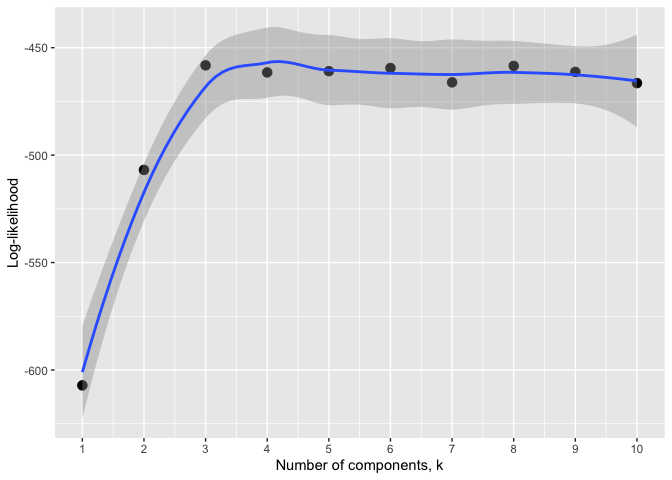
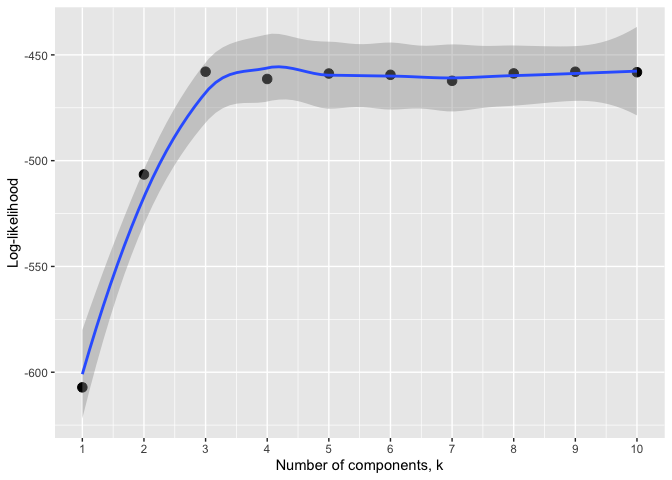
Improve example description

diff --git a/README.md b/README.md
@@ -11,7 +11,7 @@ Badge](https://img.shields.io/badge/license-GPL_(%3E%3D_2)-blue)
 
 <!-- badges: end -->
 
-# Overview
+## Overview
 
 gmmDenoise is an R package for erroneous amplicon sequence variant (ASV)
 filtering in eDNA metabarcoding data on the basis of Gaussian mixture
@@ -29,7 +29,7 @@ results of the GMM fitting and filtering processes.
 devtools::install_github("YSKoseki/gmmDenoise")
 ```
 
-## Example
+## Example workflow
 
 This is an example of how gmmDenoise works for filtering erroneous ASVs.
 
@@ -53,18 +53,22 @@ asvhist(mifish)
 <img src="man/figures/README-example-1.png" width="50%" />
 
 ``` r
-asvhist(mifish, type = "density", nbins = 30) # See `help(asvhist)` for more details about the options
+
+# The density version with the number of bins arbitrary set at 30
+asvhist(mifish, type = "density", nbins = 30)
 ```
 
 <img src="man/figures/README-example-2.png" width="50%" />
 
 ``` r
 
+# Log-transformed data
+logmf <- log10(mifish)
+
 # Cross-validation for selecting the number of components of Gaussian
 # mixture model
-logmf <- log10(mifish)
 set.seed(101)
-cv <- gmmcv(logmf, epsilon = 1e-03)
+cv <- gmmcv(logmf, epsilon = 1e-02)
 autoplot(cv)  # equivalent to `autoplot.gmmcv(cv)`
 ```
 
@@ -72,11 +76,12 @@ autoplot(cv)  # equivalent to `autoplot.gmmcv(cv)`
 
 ``` r
 
-# An alternative approach for the number of mixture components: Sequential
+# The alternative approach for the number of mixture components: Sequential
 # parametric bootstrap tests 
 set.seed(101)
-# May take some time
-bs <- gmmbs(logmf, B = 100, epsilon = 1e-03)
+# May take some time (8 sec on my M1 MacBook Pro)
+bs <- gmmbs(logmf, B = 100, epsilon = 1e-02)
+summary(bs)
 p <- autoplot(bs)  # equivalent to `p <- autoplot.gmmbs(bs)`
 library(cowplot)
 plot_grid(plotlist = p, ncol = 2)
@@ -85,10 +90,9 @@ plot_grid(plotlist = p, ncol = 2)
 <img src="man/figures/README-example-4.png" width="50%" />
 
 ``` r
-summary(bs)
 
 # Fit a 3-component Gaussian mixture model and display a graphical representation
-# of the output
+# of the fitted model
 set.seed(101)
 mod <- gmmem(logmf, k = 3)
 autoplot(mod) # equivalent to `autoplot.gmmem(mod)`
@@ -97,7 +101,10 @@ autoplot(mod) # equivalent to `autoplot.gmmem(mod)`
 <img src="man/figures/README-example-5.png" width="50%" />
 
 ``` r
-thresh <- quantile(mod) # equivalent to `autoplot.gmmem(mod, comp = 2, probs = 0.95)`
+
+# Determine the cutoff threshold (default is the upper one-sided 95% confidence 
+# limit of the second uppermost component) 
+thresh <- quantile(mod)
 autoplot(mod, vline = thresh)
 ```
 
@@ -108,15 +115,12 @@ autoplot(mod, vline = thresh)
 # Filter ASVs with the threshold value
 logmf2 <- logmf[which(logmf > thresh)]
 mifish2 <- mifish[which(logmf > thresh)]
+length(mifish2)
+summary(mifish2)
 asvhist(mifish2)
 ```
 
 <img src="man/figures/README-example-7.png" width="50%" />
-
-``` r
-length(mifish2)
-summary(mifish2)
-```
 
 <!--
 You'll still need to render `README.Rmd` regularly, to keep `README.md` up-to-date. `devtools::build_readme()` is handy for this. You could also use GitHub Actions to re-render `README.Rmd` every time you push. An example workflow can be found here: <https://github.com/r-lib/actions/tree/v1/examples>.
